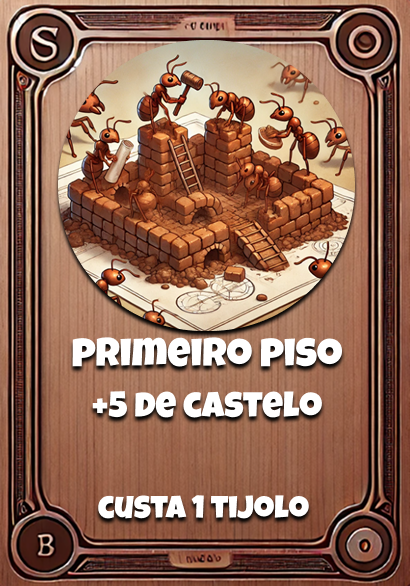
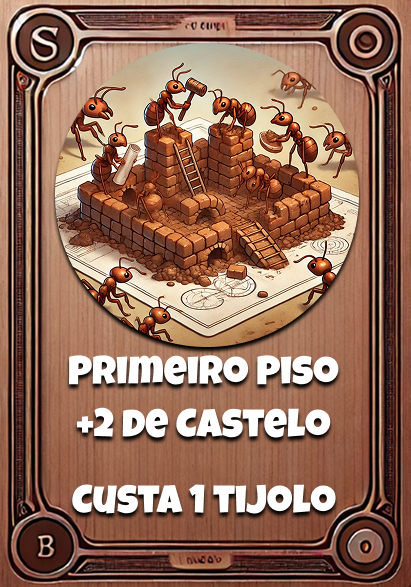
0.2.1 - PrimeiroPiso com valor incorreto, corrigido para novo valor.

diff --git a/assets/js/app.js b/assets/js/app.js
@@ -342,7 +342,7 @@ const cartas = [
     efeito:{
       tipo: 'adicionar',
       alvo: 'castelo',
-      quantidade: 5
+      quantidade: 2
     },
     custo: {
       recurso: 'tijolos',
@@ -625,8 +625,8 @@ function jogarCarta(img){
     divMensagem.classList.add('mensagem');
     divMensagem.innerHTML = `
      Deseja descartar esta cartar e receber +1 do recurso necessário? (${recurso})
-    <button id="sim">Sim</button>
-    <button id="nao">Não</button>
+    <button id="sim" class="button">Sim</button>
+    <button id="nao" class="button">Não</button>
     `; 
     classeCampo.appendChild(divMensagem);
     desabilitarSelecao();
@@ -1249,4 +1249,32 @@ function animarCampoGangorraTudo(){
     document.getElementById(`p2-magos`).classList.remove('brilho-animado');
   },1000);
   }
+}
+
+
+function telaTutorial(){
+ const classePai =  document.querySelector('.campo');
+ const telaTutorial = document.createElement('div');
+ telaTutorial.className = ('campo-tutorial');
+ telaTutorial.innerHTML += `
+       <h1>Bem-vindo ao Formiguerra <br><br>Formiguerra é um jogo de cartas onde o objetivo é destruir o castelo inimigo,
+        ou fazer o seu castelo chegar a 100 de vida. O BOT poderá ganhar também pelas mesmas condições. <br><br>
+        > Para jogar uma carta, basta clicar nela. Todas as cartas têm um custo de algum Recurso, e são infinitas, então
+        pode usar à vontade.<br>
+        > Se você não tiver o Recurso para jogar a carta,você pode DESCARTAR a carta clicando nela, e receberá 1 de Recurso do custo desta carta.
+        O BOT também pode Descartar, mas ele recebe +1 de todos os Recursos.<br>
+        > A cada turno que se inicia é somado aos Recursos do jogador que está na vez os respectivos Fornecedores: <br>
+        🧱 Tijolos -> É somado por: 🛠Construtores<br>
+        ⚔Armas -> É somado por: 🛡Soldados<br>
+        💎Cristais -> É somado por: 🧙Magos<br>
+        <h2><button class="button" onclick="sairTutorial()">Clique para Voltar</button></h2>
+      </h1>
+ ` 
+classePai.appendChild(telaTutorial);
+
+}
+
+function sairTutorial(){
+  const telaTutorial = document.querySelector('.campo-tutorial');
+  telaTutorial.remove();
 }

diff --git a/assets/style/style.css b/assets/style/style.css
@@ -152,7 +152,21 @@ p{
   .campo__jogo.inicio{
     height: 100vh;
     width: 100vw;
-    line-height: 3rem;
+    line-height: 2.3rem;
+    font-size: 1rem;
+    padding: 0;
+    background-color: #333;
+    border: 4px solid #0bca44;
+    text-align: center;
+    justify-content: center;
+  }
+
+  .campo-tutorial{
+    position: absolute;
+    height: 100vh;
+    width: 100vw;
+    line-height: 2.2rem;
+    font-size: 1rem;
     padding: 0;
     background-color: #333;
     border: 4px solid #0bca44;
@@ -207,7 +221,7 @@ p{
 
   
   .campo__jogo__jogador__carta.selecionaveis.desabilitada:hover::after {
-    content: "Sem Recurso";
+    content: "Descartar";
     position: absolute;
     top: 10%;
     left:50%;
@@ -225,7 +239,6 @@ p{
   /* Títulos */
 .titulo{
   align-self: center;
-  left: 0;
   padding: 1rem;
 }
 
@@ -281,6 +294,19 @@ p{
   #enemyWallBar{
     background-color: #e74c3c;
   }
+
+
+  .botao-dicas{
+    display: flex;
+    align-self: center;
+    justify-content: center;
+    padding: 1rem;
+  }
+
+  .button.tutorial{
+    margin-top: 0;
+  }
+
 
   @keyframes jogarCarta{
     0%{

diff --git a/index.html b/index.html
@@ -12,7 +12,8 @@
     <div class="campo__jogo inicio">
       <h1>Bem-vindo ao Formiguerra <br><br>Formiguerra é um jogo de cartas onde o objetivo é destruir o castelo inimigo,
         ou fazer o seu castelo chegar a 100 de vida. O BOT poderá ganhar também pelas mesmas condições. <br><br>
-        > Para jogar uma carta, basta clicar nela. Todas as cartas têm um custo de algum Recurso.<br>
+        > Para jogar uma carta, basta clicar nela. Todas as cartas têm um custo de algum Recurso  e são infinitas, então
+        pode usar à vontade.<br>
         > Se você não tiver o Recurso para jogar a carta,você pode DESCARTAR a carta clicando nela, e receberá 1 de Recurso do custo desta carta.
         O BOT também pode Descartar, mas ele recebe +1 de todos os Recursos.<br>
         > A cada turno que se inicia é somado aos Recursos do jogador que está na vez os respectivos Fornecedores: <br>

diff --git a/inicial.html b/inicial.html
@@ -52,7 +52,7 @@
               <p>💎 Cristais</p><span id="p2-cristais" class="numero">5</span>
               <p>🧙 Magos</p><span id="p2-magos" class="numero">2</span>
             </div>
-         </div>
+        </div>
         </div>
       </div>
     </div>
@@ -92,6 +92,10 @@
     <div class="player__area p1">
       <div class="status">
         <div class="player p1" id="player1">
+          <div class="botao-dicas">
+            <h2><button class="button tutorial" onclick="telaTutorial()">Tutorial</button>
+            </h2>
+          </div>
           <div class="titulo p1"><h1>Jogador</h1></div>
           <div class="celula" style="border: 1px solid rgba(138, 137, 137, 0.574);">
           <div class="player__info vida jogador" id="p1-status">
